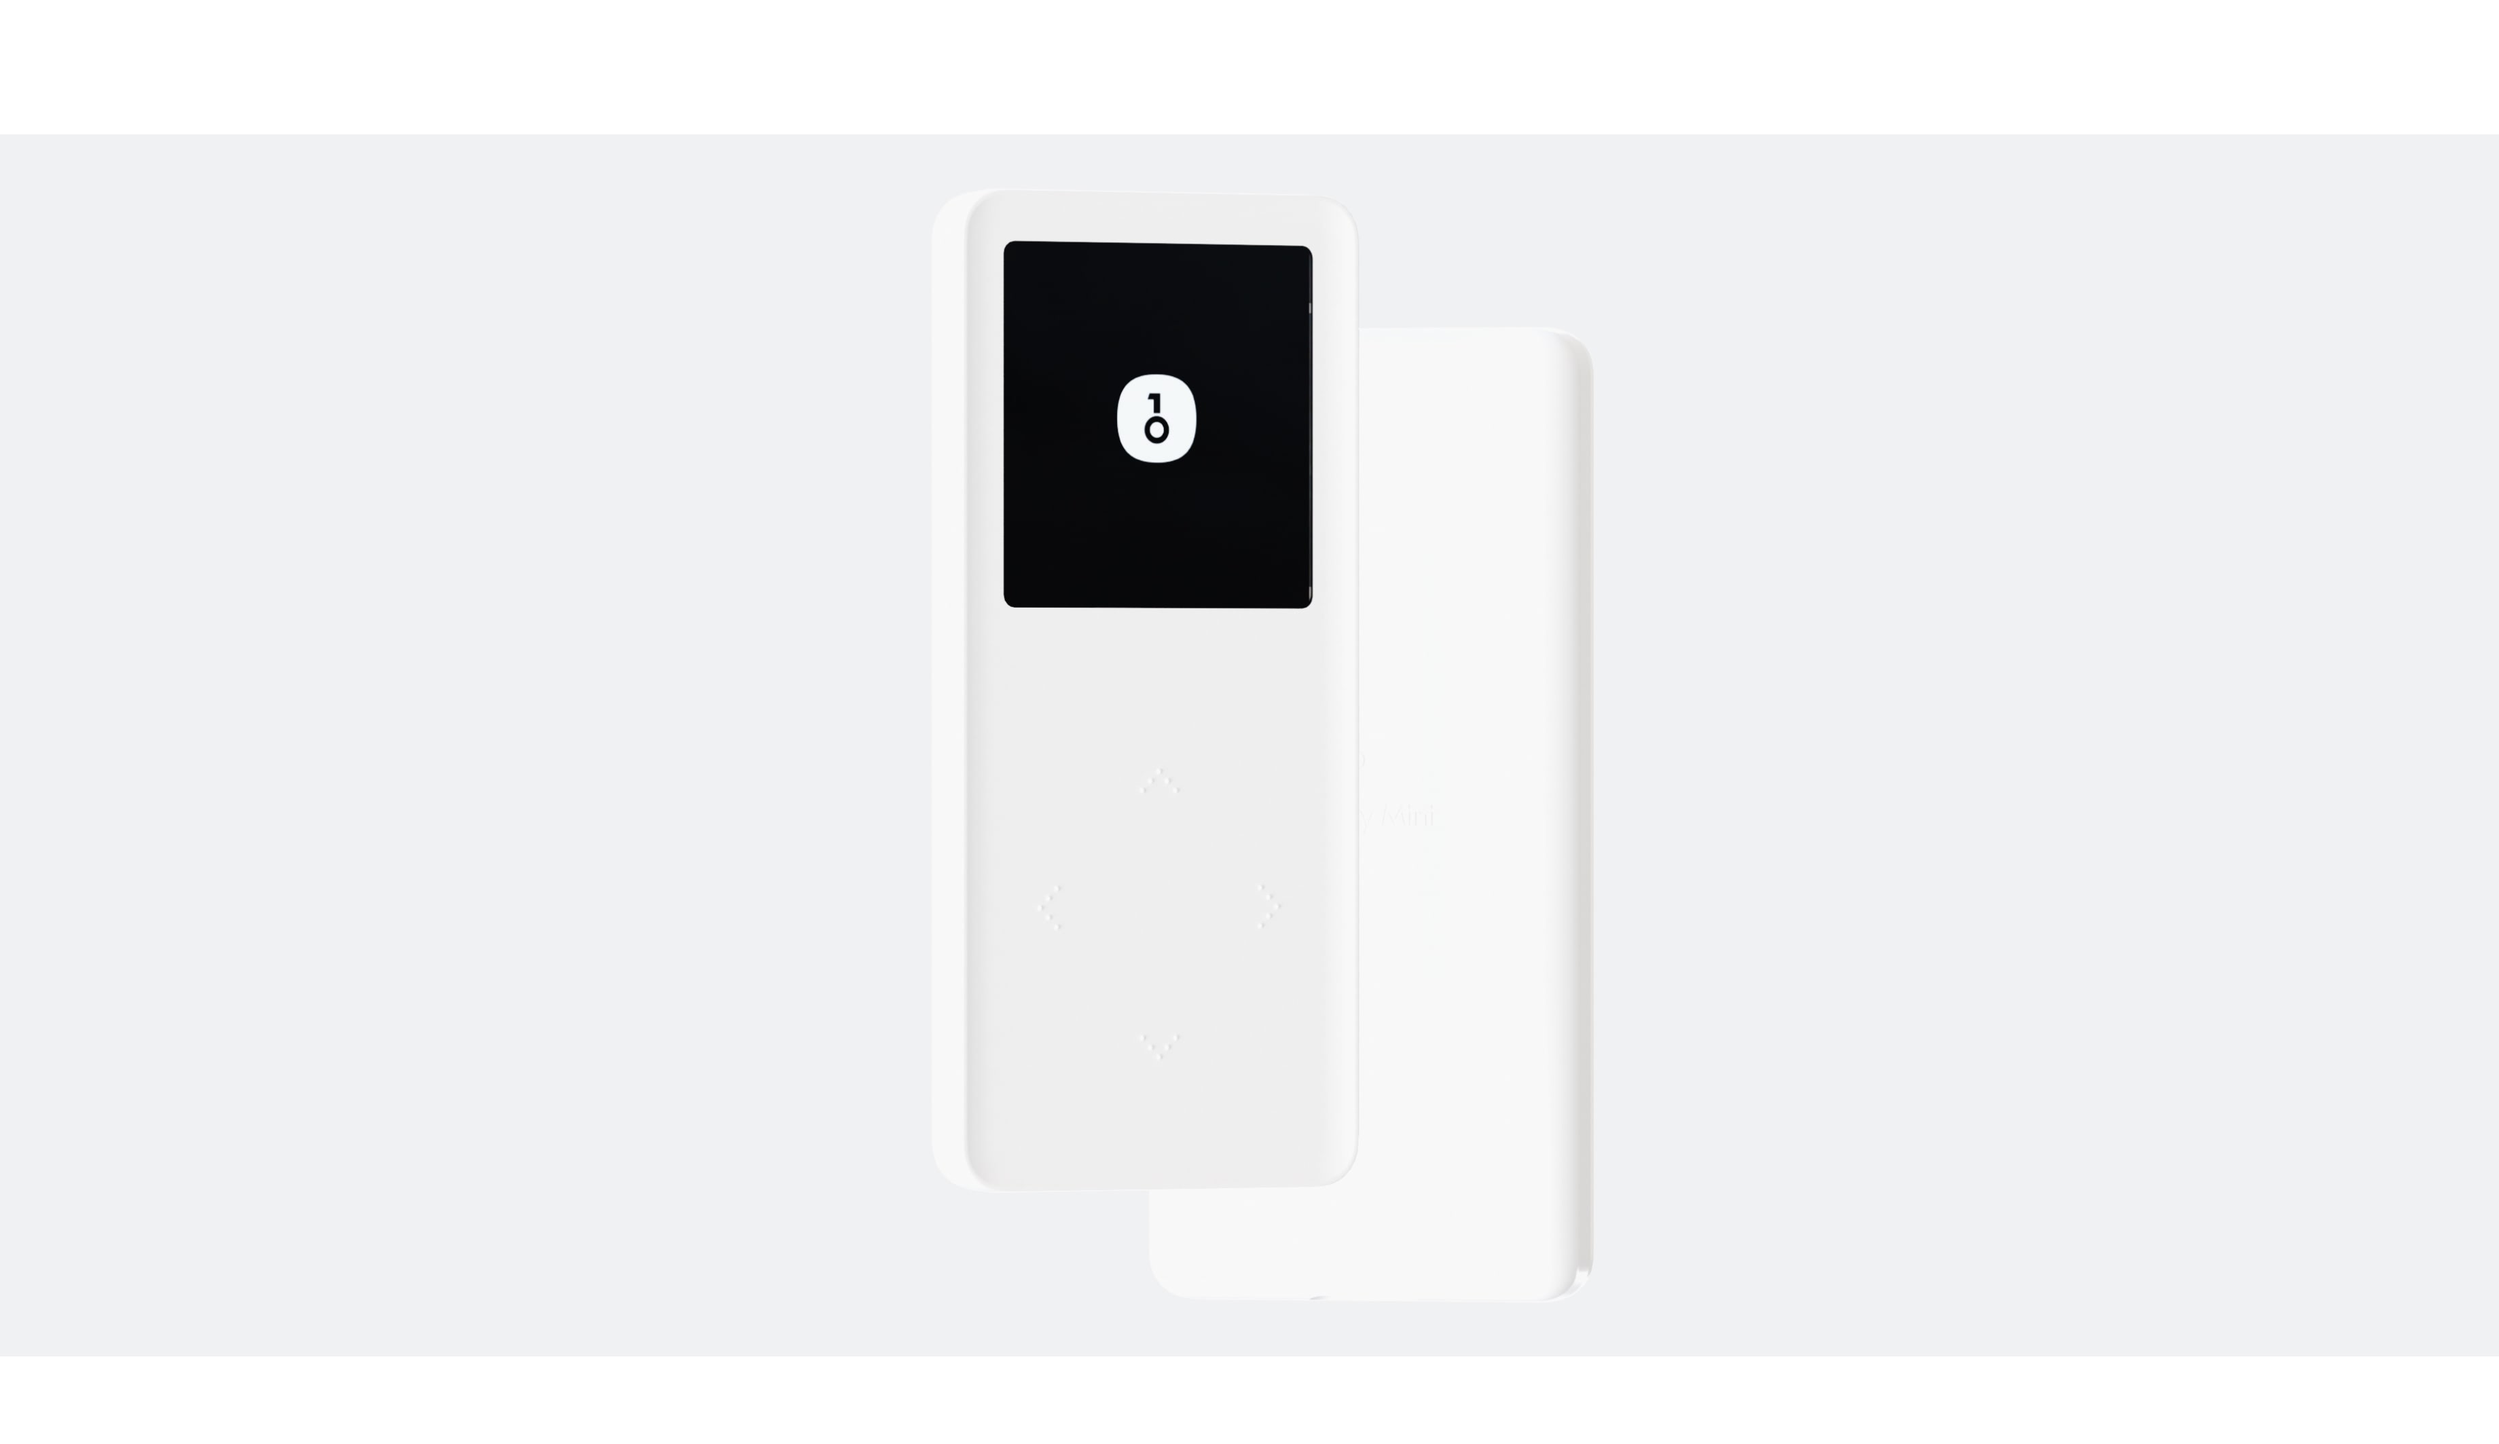
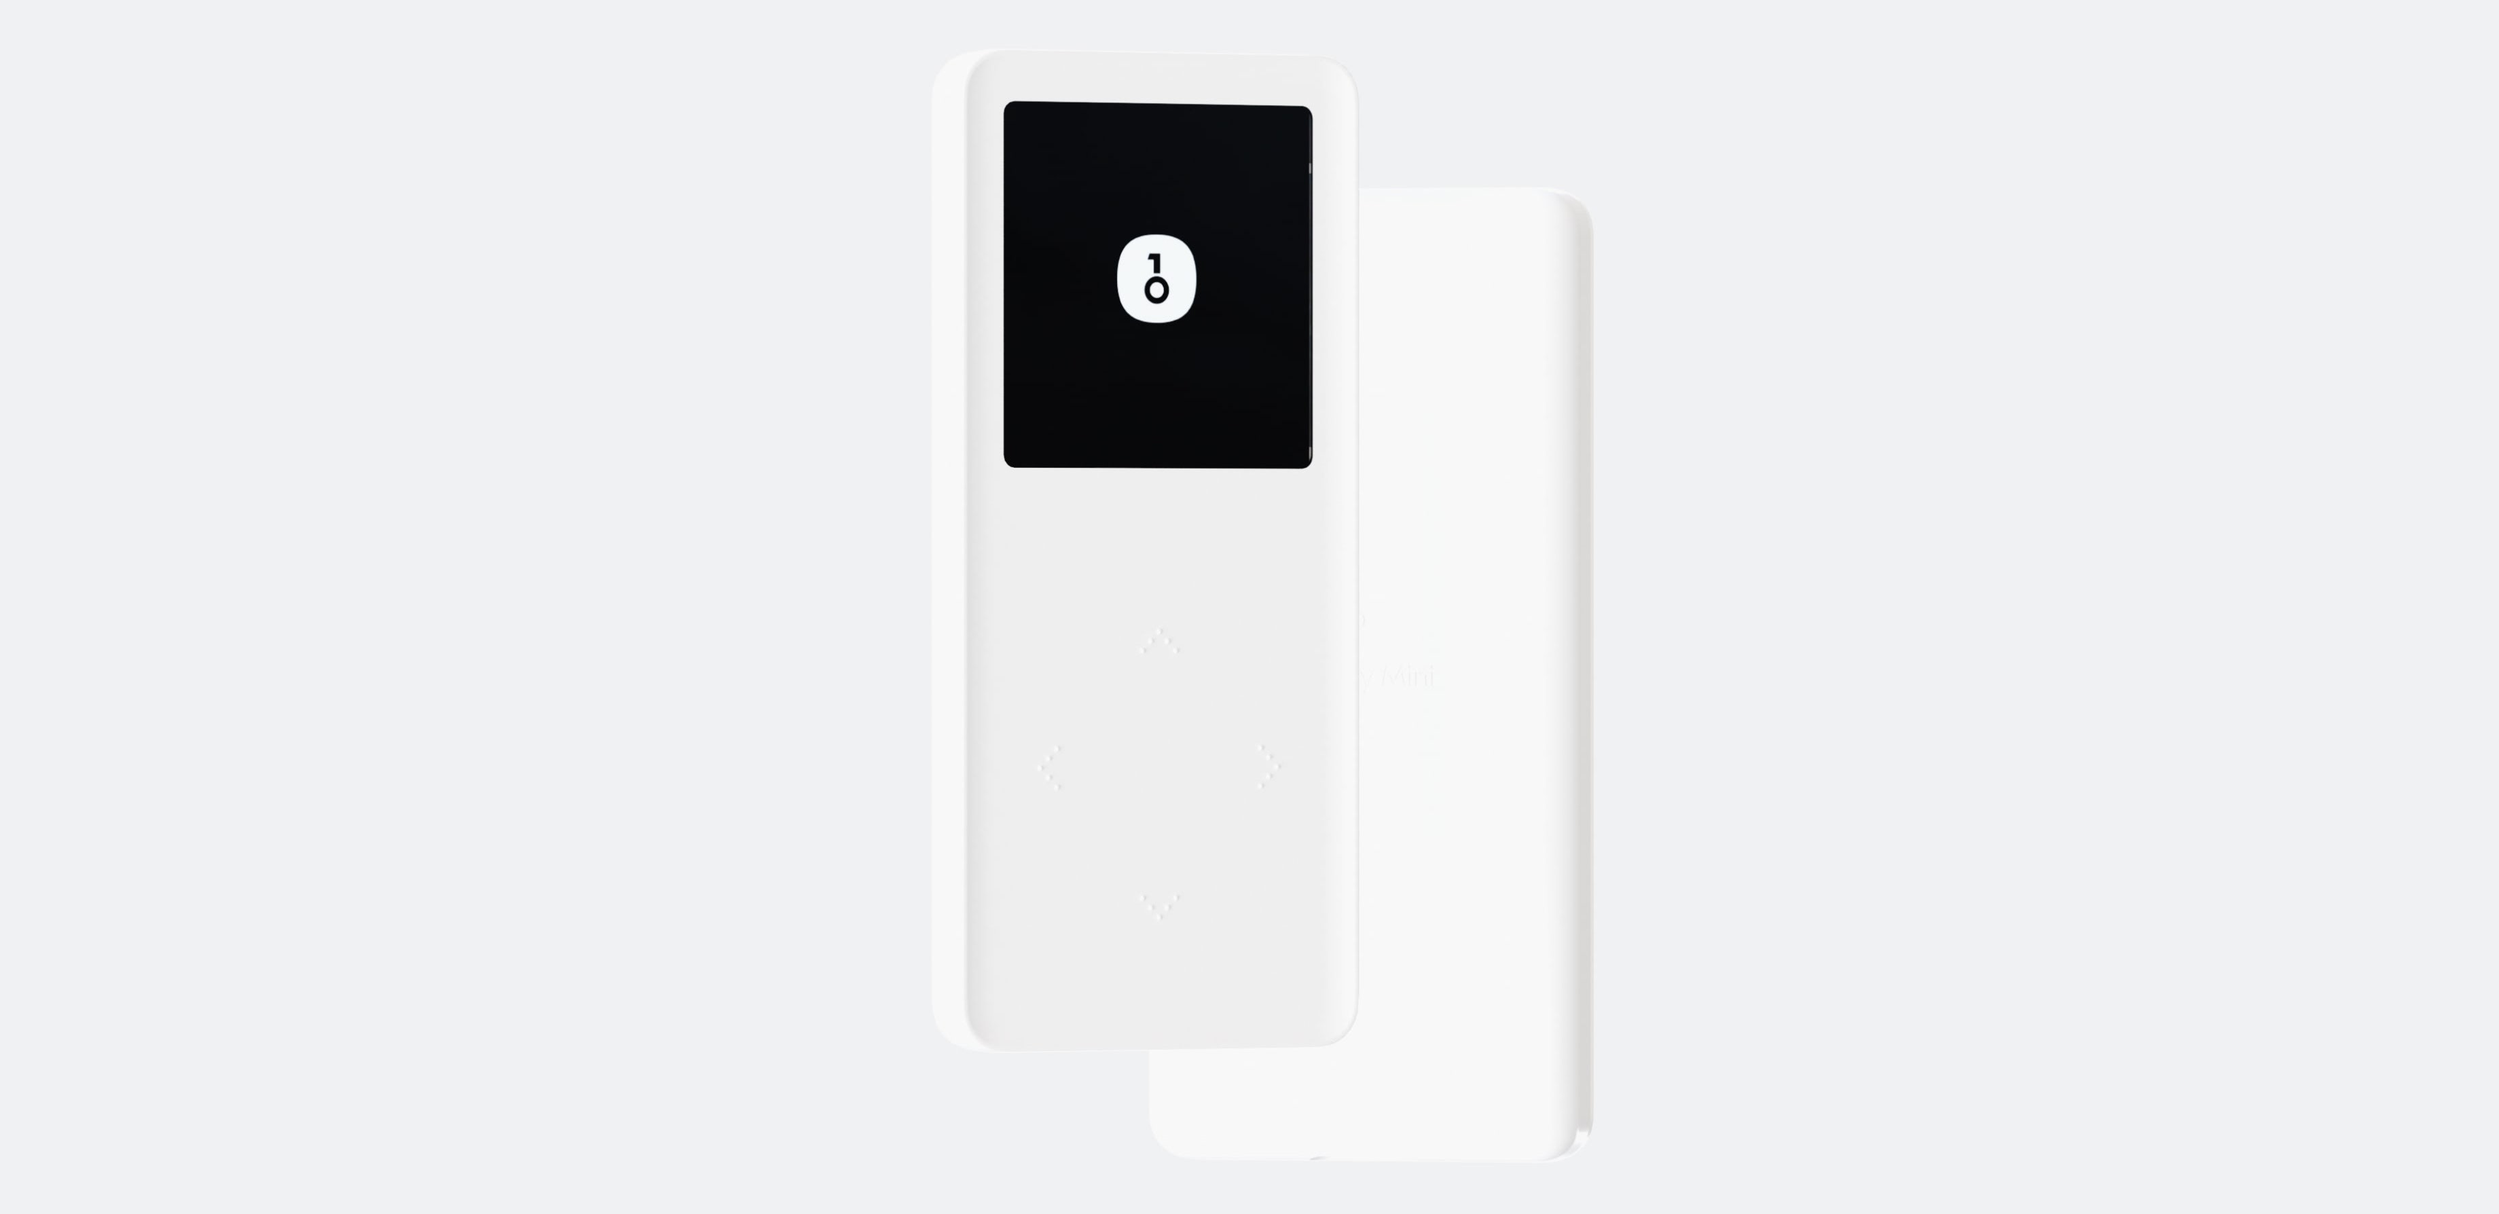
fix: image size and border radius

diff --git a/src/components/pages/products/components/IntroductionSection/ImageIntroduction/ImageIntroduction.tsx b/src/components/pages/products/components/IntroductionSection/ImageIntroduction/ImageIntroduction.tsx
@@ -24,7 +24,13 @@ export const ImageIntroduction: FC<ImageIntroductionProps> = (props) => {
     <Flex xs={{ flexDirection: 'column', gap: 20 }} m={{ gap: 40 }}>
       {items.map((item) => (
         <Box xs={{ position: 'relative' }} key={item.name}>
-          <Box xs={{ borderRadius: 40, overflow: 'hidden' }}>
+          <Box
+            xs={{
+              borderRadius: 40,
+              overflow: 'hidden',
+              transform: 'translateZ(0)',
+            }}
+          >
             <OnlyDisplay xs>{item.images.s}</OnlyDisplay>
             <OnlyDisplay s>{item.images.m}</OnlyDisplay>
             <OnlyDisplay m l>
